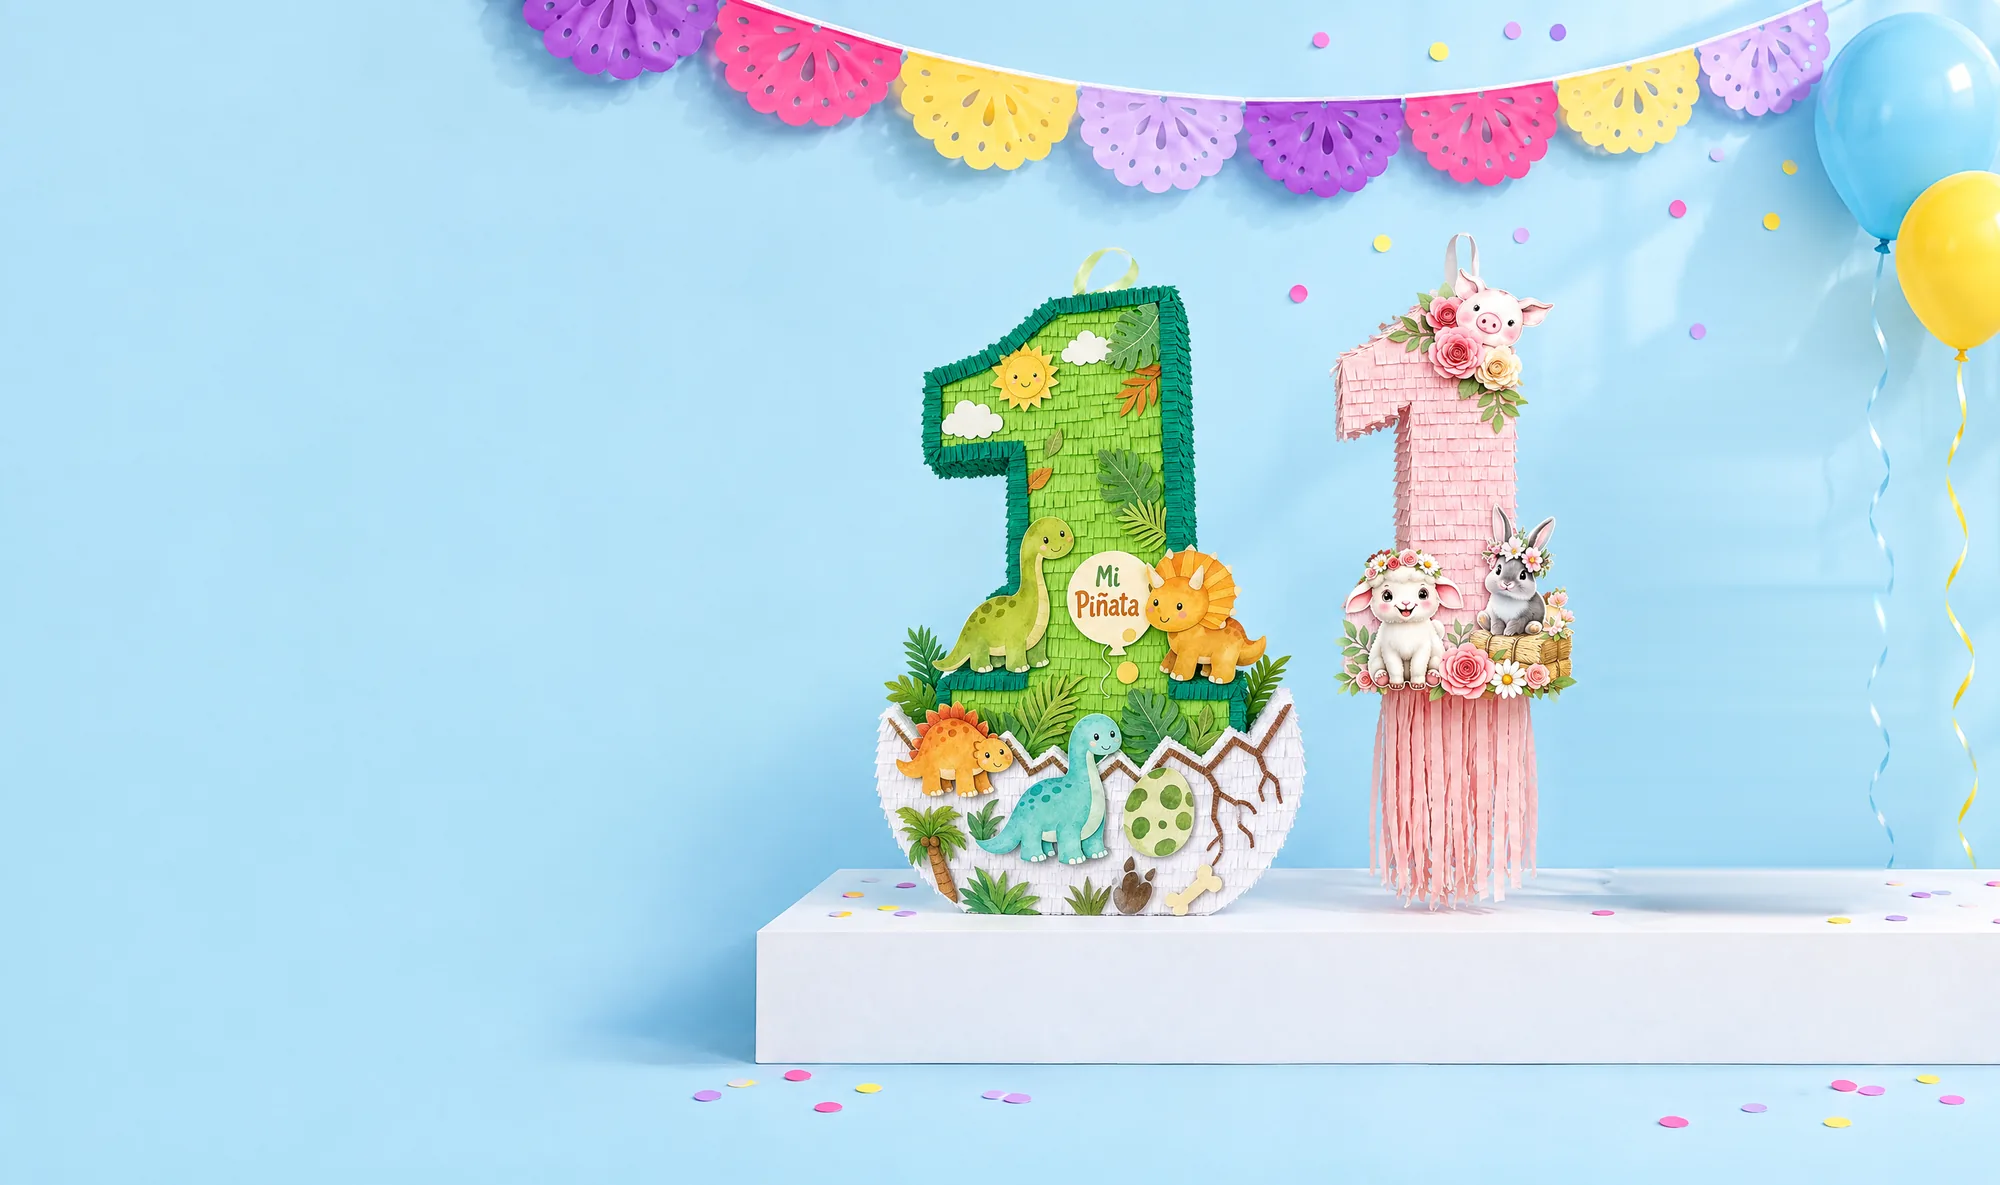
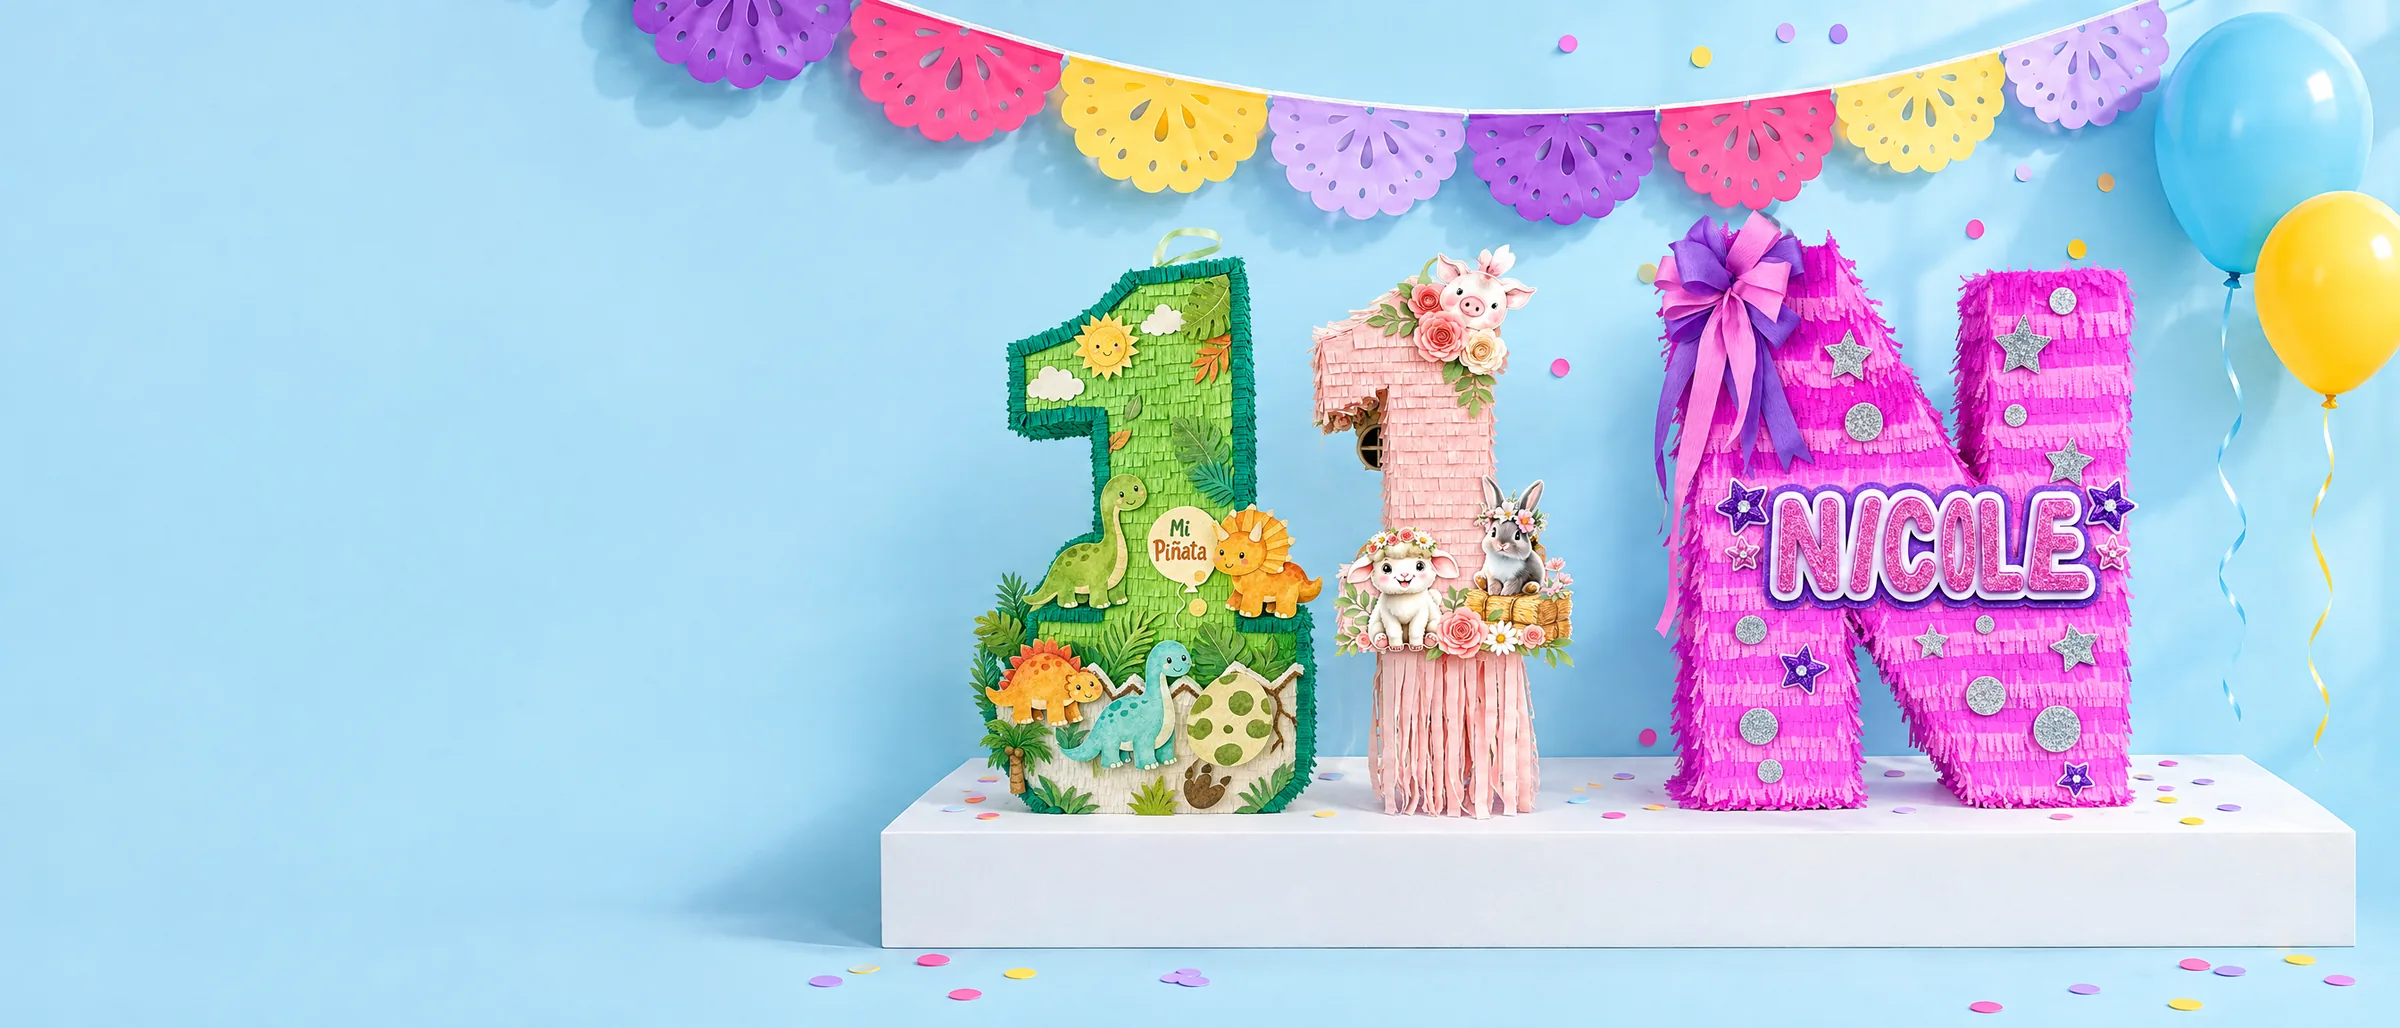
Carrusel 21:9 con las imágenes nuevas; números y letras
Claude-Session: https://claude.ai/code/session_01TXTfbLDM4MWkjPWABfvo5a

diff --git a/src/styles/home.css b/src/styles/home.css
@@ -279,10 +279,10 @@
 
 /* ── Carrusel de la portada (imágenes ya compuestas) ── */
 .h-slider{position:relative;overflow:hidden}
-.h-slides{position:relative;aspect-ratio:2592/1536;max-height:640px;width:100%}
+.h-slides{position:relative;aspect-ratio:21/9;width:100%}
 .h-slide{position:absolute;inset:0;background:var(--c);opacity:0;visibility:hidden;transition:opacity .8s ease,visibility 0s linear .8s}
 .h-slide.on{opacity:1;visibility:visible;transition:opacity .8s ease}
-.h-slide-bg img{position:absolute;inset:0;width:100%;height:100%;object-fit:cover;object-position:right 80%}
+.h-slide-bg img{position:absolute;inset:0;width:100%;height:100%;object-fit:cover;object-position:right center}
 .h-slide.full .h-slide-bg img{object-position:center 75%}
 .h-slide.full .h-slide-in{align-items:flex-end;justify-content:center;padding:0 20px 46px}
 .h-slide.full .h-slide-txt{flex-direction:row;align-items:center;gap:16px;max-width:none;background:rgba(255,255,255,.9);padding:12px 14px 12px 22px;border-radius:16px;box-shadow:0 10px 30px -18px rgba(43,29,92,.5)}
@@ -302,12 +302,13 @@
 .h-sl-dots button{width:10px;height:10px;padding:0;border-radius:999px;border:0;background:rgba(43,29,92,.25);cursor:pointer;transition:width .3s,background .3s}
 .h-sl-dots button[aria-selected="true"]{width:28px;background:var(--accent)}
 @media (prefers-reduced-motion: reduce){.h-slide,.h-slide.on{transition:none}}
-@media (max-width:980px){.h-slides{aspect-ratio:auto;height:460px}.h-slide-txt{max-width:40vw}}
+@media (max-width:980px){.h-slide-txt{max-width:40vw}.h-slide-t{font-size:clamp(26px,3.6vw,40px)}.h-slide-d{display:none}}
 @media (max-width:760px){
   .h-slides{height:auto;min-height:0;aspect-ratio:auto}
+  .h-slide-d{display:block}
   .h-slides{display:grid}
   .h-slide{position:relative;grid-area:1/1;display:flex;flex-direction:column}
-  .h-slide-bg{display:block;aspect-ratio:900/683;overflow:hidden}
+  .h-slide-bg{display:block;aspect-ratio:4/3;overflow:hidden}
   .h-slide.full .h-slide-bg{aspect-ratio:900/533}
   .h-slide.full .h-slide-in{padding:16px 20px 44px;display:block}
   .h-slide.full .h-slide-txt{display:flex;flex-direction:column;align-items:stretch;background:none;box-shadow:none;padding:0}
